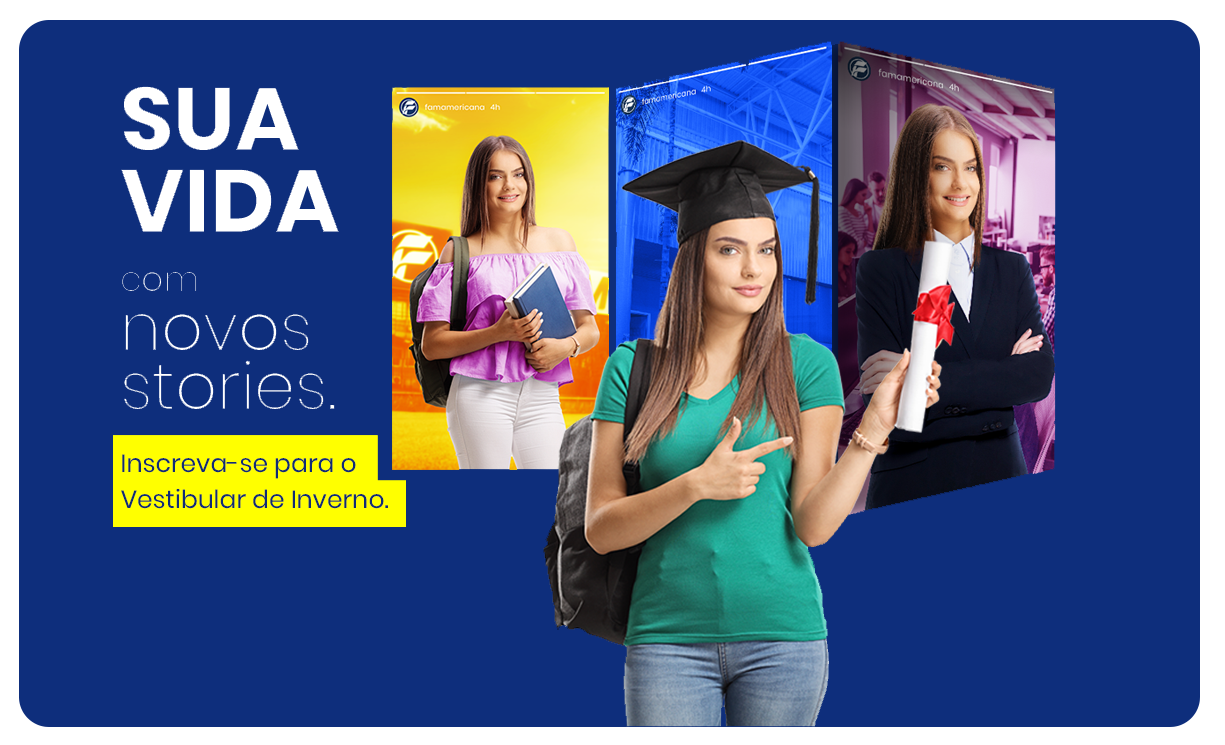
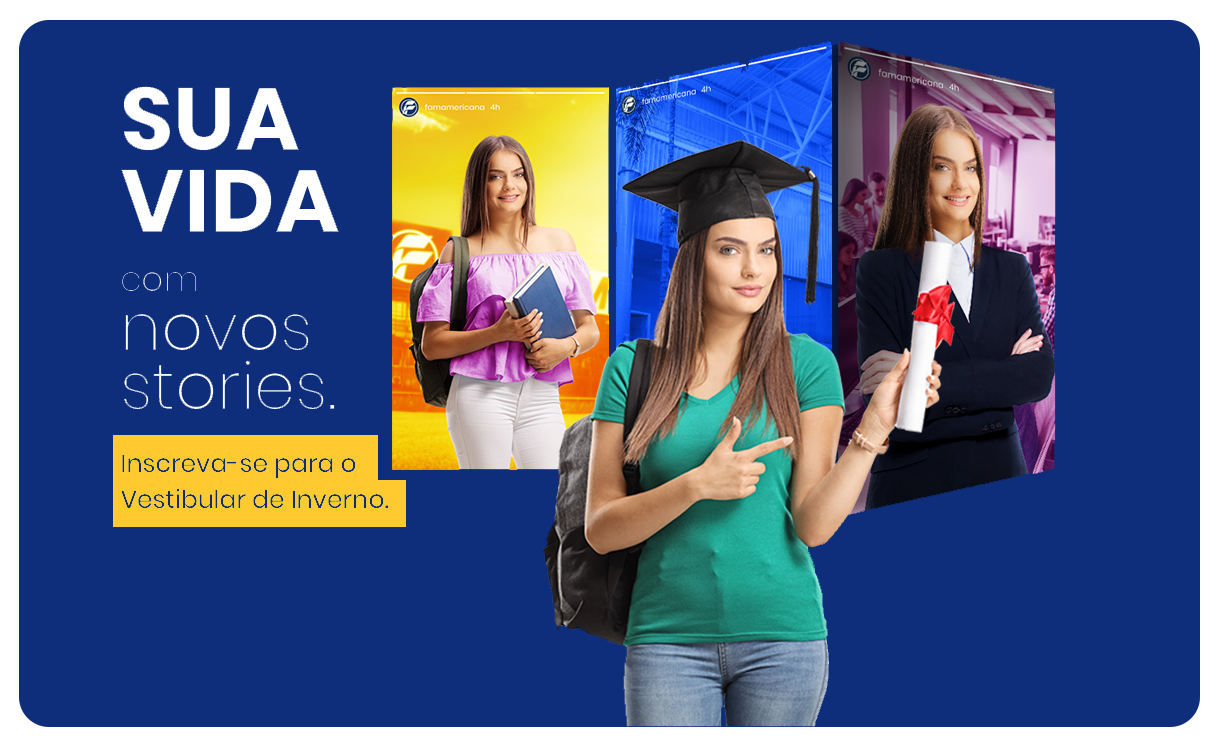
04-08-2020_20:21:13

Changed region(s): [[0.0931, 0.5866, 0.3412, 0.7101]]

diff --git a/ambiente_conversao/vestibularfam2020.1/assets/css/update.css b/ambiente_conversao/vestibularfam2020.1/assets/css/update.css
@@ -38,7 +38,47 @@
         font-weight: 600;
         z-index: 3000;
     }
-    
+
+    @media (min-width: 768px) {
+        .navbar {
+            top: 10px;
+            display: block;
+            position: relative;
+            margin: 0 auto;
+            background-color: #0e2e7c;
+            width: 1110px;
+            height: 110px;
+            border-radius: 30px;
+        }
+        .index {
+            display: block;
+            position: relative;
+            margin: 0 auto;
+            background-color: #0e2e7c;
+            margin-top: -3em !important;
+            padding-top: 30em !important;
+            border-radius: 30px;            
+        }
+        .img-home-person {
+            transform: scale(0.8);
+            position: absolute; 
+            top: 3px !important;           
+            left: 3em;
+        }
+        .form-home {
+            position: absolute;
+            margin-left: 12.5em !important;
+            margin-top: -4em !important;
+        }
+        
+    }
+    .form-home {z-index: 500 !important;}
+    .form-home input, .form-home select{
+        color: #0e2e7c !important;
+        background-color: #FFCA30 !important;
+        border: 1px solid #0e2e7c;        
+    }
+
     @media (max-width: 768px) {
         .pop .msg {
             transform: scale(0.65);
@@ -62,6 +102,7 @@
     }
 
     /*manuais*/
+
     .poparq {
         margin: 0;
         padding: 0;
@@ -73,18 +114,8 @@
         background-color: rgba(0, 0, 0, 0.7);
         z-index: 2000;
     }
-    .imgarq1,
-    .imgarq2,
-    .imgarq3,
-    .imgarq4,
-    .imgarq5,
-    .imgarq6,
-    .imgarq7,
-    .imgarq8,
-    .imgarq9,
-    .imgarq10,
-    .imgarq11,
-    .imgarq12{
+
+    .imgarq1, .imgarq2, .imgarq3, .imgarq4, .imgarq5, .imgarq6, .imgarq7, .imgarq8, .imgarq9, .imgarq10, .imgarq11, .imgarq12 {
         display: none;
         position: absolute;
         margin-left: 2em;
@@ -119,38 +150,47 @@
         .js-form {
             display: block;
             position: relative;
-            margin-top: -480px !important;
-        } 
-        .inscricaofundo{
-            border-radius: 30px;
-            top:70px;
-            left:-50px;
-            background-color: #0e2e7c;
-        } 
-        .finalizado{
+            margin-top: -450px !important;            
+        }
+        .inscricaofundo {            
             display: block;
-            width: 1000px !important;
-            padding-left: 150px !important;
+            position: relative;
+            width: 1110px !important;
             border-radius: 30px;
-            top:-50px;
-            background-color: #0e2e7c;    
-        }   
-        .logo-azul{
-            display:block;
-            position:absolute;
-            left:14em;top:20px;height :50px;z-index:1000 !important;
-        }        
+            top: -2em;
+            background-color: #0e2e7c;
+        }
+        .finalizado {
+            display: block;
+            position: relative;
+            left: -4.3em;
+            width: 1110px !important;
+            padding-left: 150px !important;
+            padding-top: 20px !important;
+            border-radius: 30px;
+            top: -2.5em !important;
+            background-color: #0e2e7c;
+            margin-bottom: -18em !important;
+        }
+        .logo-azul {
+            display: block;
+            position: absolute;
+            left: 14em;
+            top: 20px;
+            height: 50px;
+            z-index: 1000 !important;
+        }
     }
 
-    ul a.nav-link{
+    ul a.nav-link {
         background-color: #0e2e7c !important;
         color: #fff !important;
     }
-    ul a.nav-link:hover{
-        background-color: #ffff00 !important;
-        color: #0e2e7c !important;
-    } 
 
+    ul a.nav-link:hover {
+        background-color: #ffca30 !important;
+        color: #fff !important;
+    }
 
     @media (max-width: 768px) {
         .js-form {
@@ -158,17 +198,15 @@
             position: relative;
             margin-top: -260px !important;
         }
-        .inscricaofundo{
+        .inscricaofundo {
             background-color: #0e2e7c;
         }
-        .finalizado{
+        .finalizado {
             background-color: #0e2e7c;
         }
-
-        .logo-azul{
+        .logo-azul {
             display: none;
         }
-
     }
 
     .btn-concluir {
@@ -295,6 +333,11 @@
         font-size: 16px;
         color: #fff;
     }
-    .rodape{
+
+    .rodape {
+        display: block;
+        position: relative;
+        margin-top: -2em !important;
+        z-index: 1;
         color: #0e2e7c !important;
     }

diff --git a/ambiente_conversao/vestibularfam2020.1/assets/css/main.css b/ambiente_conversao/vestibularfam2020.1/assets/css/main.css
@@ -94,8 +94,8 @@
     #page-inscricao input[type="text"].form-control,
     #page-inscricao input[type="email"].form-control,
     #page-inscricao input[type="number"].form-control,
-    #page-inscricao input[type="tel"].form-control,
-    #page-inscricao select.form-control,
+    #page-inscricao input[type="tel"].form-control,   
+    #page-inscricao select,
     #page-adicionais input[type="text"],
     #page-adicionais input[type="email"],
     #page-adicionais input[type="tel"],
@@ -104,8 +104,15 @@
     #page-adicionais {
         border-radius: 3px;
         background-color: #ffca30;
-        color: #fff;
+        color: #0e2e7c !important;
         box-shadow: -1px 1px 5px rgba(0, 0, 0, 0.15), 0 -1px 0 #29295f;
+    }
+
+    #page-inscricao .form-control.nasc::placeholder,
+    #page-inscricao .form-control.fone::placeholder,
+    #page-inscricao .form-control.cmail::placeholder{
+        color: #0e2e7c !important;
+        font-weight: 800;
     }
     
     select:not([size]):not([multiple]).form-control {
@@ -650,13 +657,7 @@
         background-color:#fff;        
         color: #121215;
     }
-    
-    @media (max-width: 1500px) {
-        body#page-finalizar-inscricao {
-            
-        }
-    }
-    
+        
     body#page-finalizar-inscricao main .row-header {
         padding: 2em;
     }
